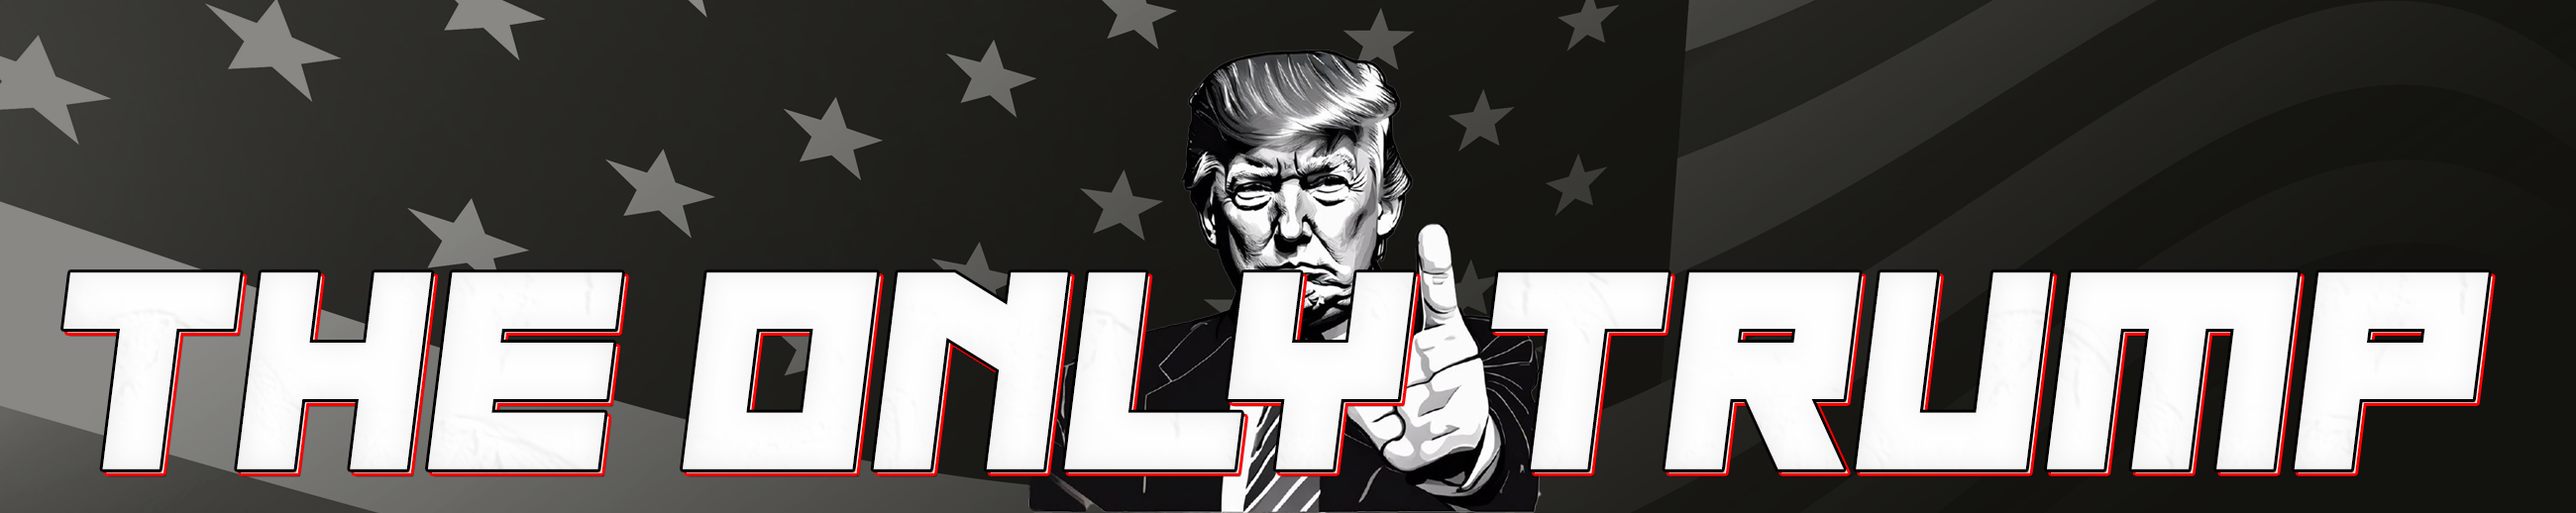
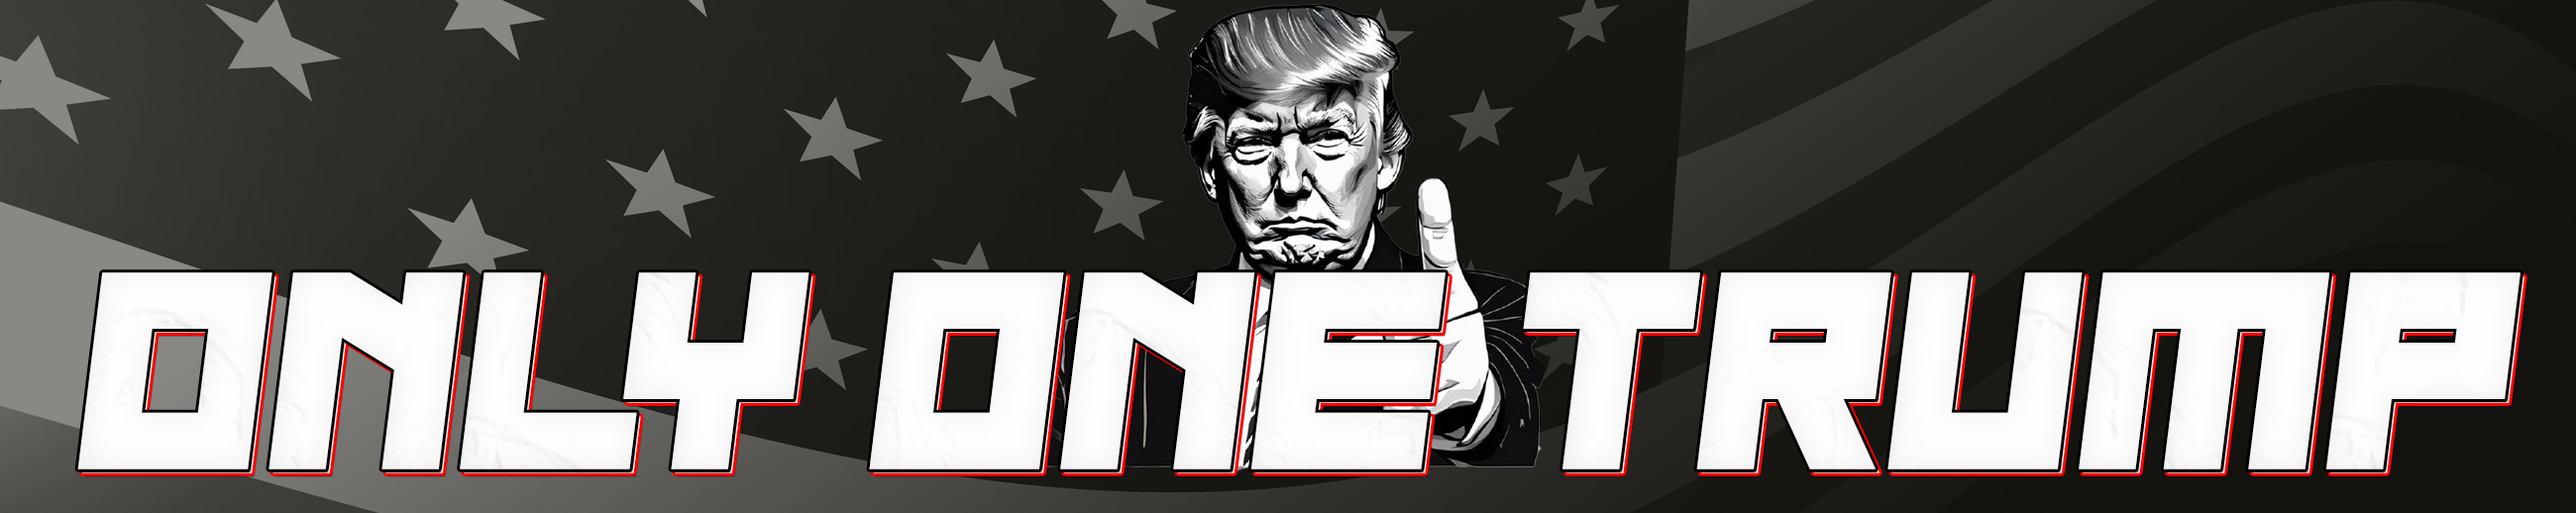
Dwd

Changed region(s): [[0.0, 0.0, 0.9969, 1.0]]

diff --git a/index.html b/index.html
@@ -182,10 +182,16 @@
                                     </style>
 
                                     <h1 class="head pulse">Together We <span class="gold-highlight ">FIGHT</span></h1>
-                                    <p class="subtitle">
-                                     Lorem, ipsum dolor sit amet consectetur adipisicing elit. Voluptatum explicabo quibusdam perferendis?
-                                        <br/> <br/></p>
-                                    <img src="/e-2.gif" alt="">
+                                    <p class="head" style="font-size: 16px;">
+                                        Own a piece of the one and only
+                                     <br/> <br/></p>
+                                     <p class="subtitle">
+                                        There's a thousand trump tokens with infinite supply, own a piece of the real trump supply 1 authenticated on the blockchain
+                                  
+                                     <br/> <br/></p>
+                                  
+                                  
+                                     <img src="/e-2.gif" alt="">
                                     <div class="btn-wrapper">
 
                                         <a href="" target="_blank" class="button-copy w-inline-block">
